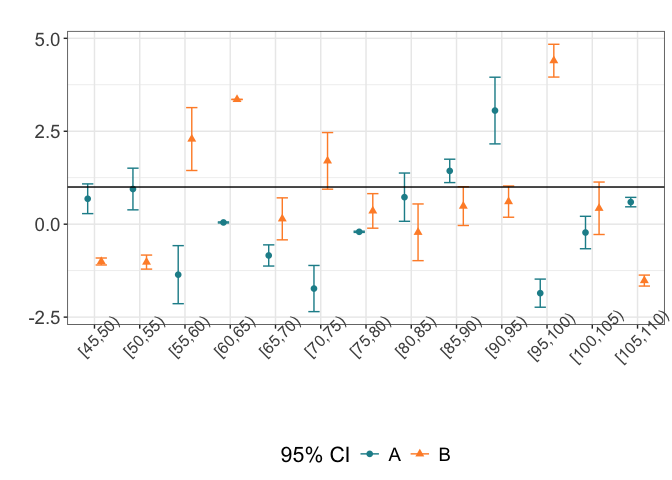
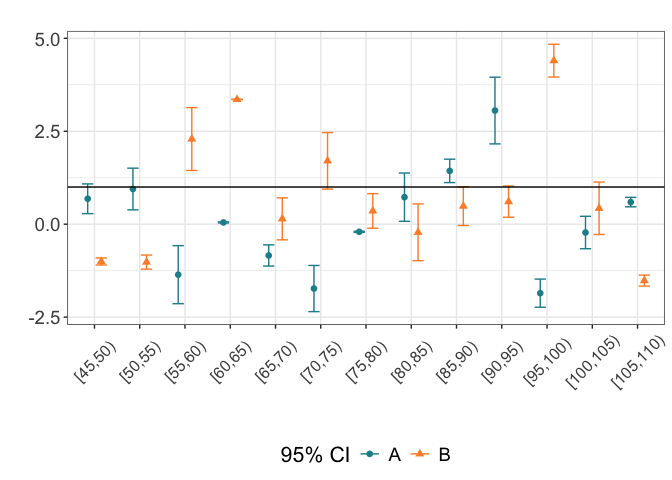
update readme

Changed region(s): [[0.125, 0.6562, 1.0, 0.8125], [0.0938, 0.7812, 0.125, 0.8125]]

diff --git a/README.md b/README.md
@@ -153,7 +153,7 @@ data(mult_reg_df)
 
 
 p = plot_j(mult_reg_df, col_vec = c("A" = "#1E8E99", "B" = "#FF8E32"))
-p + ggplot2::theme(axis.text.x =  ggplot2::element_text(angle = 45))
+p + ggplot2::theme(axis.text.x =  ggplot2::element_text(angle = 45, vjust = .5))
 ```
 
 <img src="man/figures/README-j_plot-1.png" width="100%" />
@@ -175,7 +175,7 @@ p = plot_j(
   x_label = "MAP Range",
   y_label = "Odds Ratio"
 )
-p + ggplot2::theme(axis.text.x =  ggplot2::element_text(angle = 45))
+p + ggplot2::theme(axis.text.x =  ggplot2::element_text(angle = 45, vjust = .5, size= 10))
 ```
 
 <img src="man/figures/README-j_plot-2.png" width="100%" />
